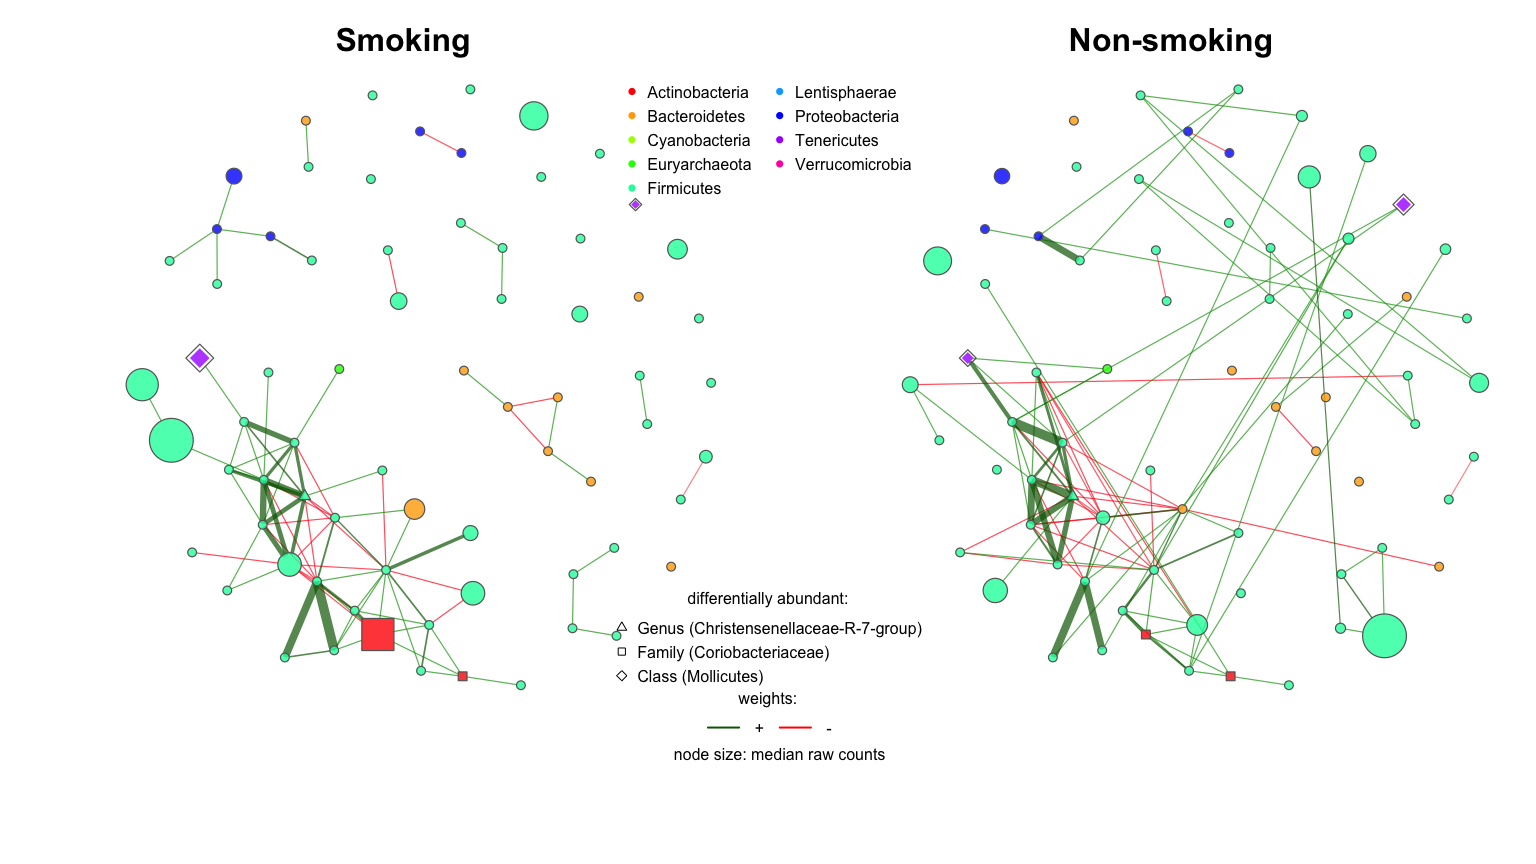
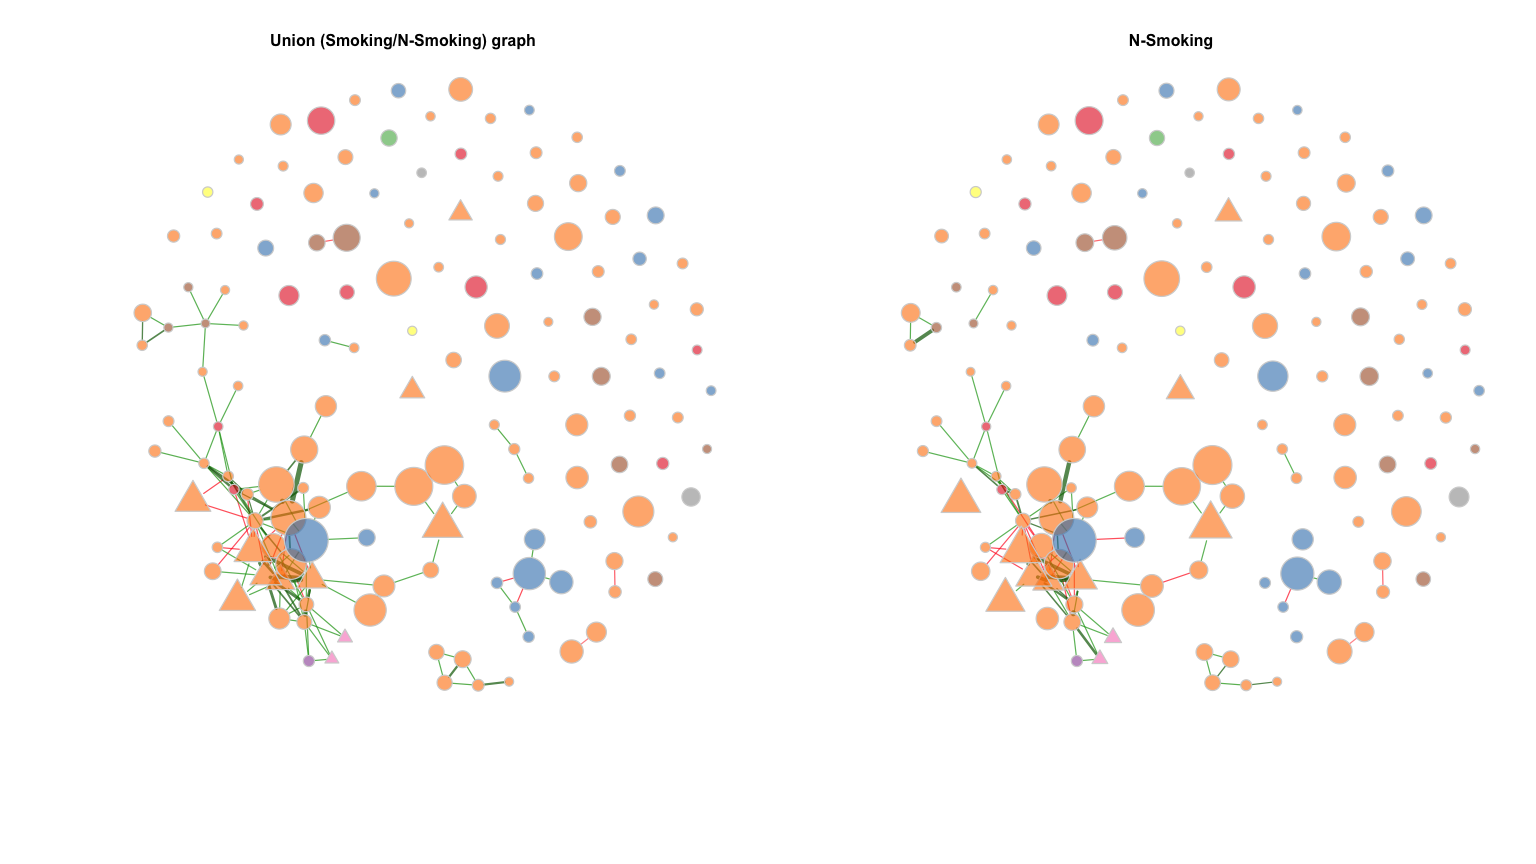
network layout union

diff --git a/5_networks/5.2.1_Networks_viz_Gen_smoke.md b/5_networks/5.2.1_Networks_viz_Gen_smoke.md
@@ -36,33 +36,33 @@ load('/Users/alicesommer/Desktop/DACOMP_cluster/dacomp_results/dacomp_results_sm
 condition <- dacomp_results$p_value_adj[dacomp_results$rank == "Genus"] <= 0.2
 ```
 
+``` r
+# layout union of networks
+graph1 <- graph_from_adjacency_matrix(props_W$input$adjaMat1, weighted = TRUE)
+graph2 <- graph_from_adjacency_matrix(props_W$input$adjaMat2, weighted = TRUE)
+
+graph_u <- union(graph1, graph2)
+### weight
+E(graph_u)$weight <- pmin(E(graph_u)$weight_1, E(graph_u)$weight_2, na.rm = TRUE) # element-wise min. 
+graph_u <- delete_edge_attr(graph_u, "weight_1")
+graph_u <- delete_edge_attr(graph_u, "weight_2")
+
+set.seed(40)
+layout_fr <- layout_with_fr(graph_u, weights = E(graph_u)$weight)
+# layout_fr <- layout.forceatlas2(graph_u, iterations=500, plotstep=500,
+#                                 gravity = .5, k = 800)
+
+plot_net_u <- props_W
+plot_net_u$input$adjaMat1 <- as_adjacency_matrix(graph_u, attr="weight", sparse = FALSE)
+```
+
+![](5.2.1_Networks_viz_Gen_smoke_files/figure-gfm/unnamed-chunk-6-1.png)<!-- -->
+
 We plot the results of the netAnalyze function.
 
 ``` r
-phyl_ps_prune <- as.factor(tax_table(ps_Genus_prune)[, 'Phylum'])
-names(phyl_ps_prune) <- rownames(tax_table(ps_Genus_prune)[, 'Phylum'])
-# phylcol <- rainbow(length(unique(phyl_ps_prune)))
-phylcol <- brewer.pal(9, "Set1")
-
-phylcol_names <- phylcol[phyl_ps_prune]
-names(phylcol_names) <- rownames(tax_table(ps_Genus_prune)[, 'Phylum'])
-# which(tax_table(ps_Genus_prune)[,"Class"] == "Mollicutes")
-# 70 112
-# which(tax_table(ps_Genus_prune)[,"Class"] == "Coriobacteriia")
-# 28  50  77  87  90  99 110 128 131 >> same numbers for Family Coriobacteriaceae 
-# Genus level diff ab
-# 24  40  53 105
-
-
-shapeVec <- rep(1, ncol(otu_table(ps_Genus_prune)))
-shapeVec[which(condition)] <- 2
-#shapeVec[c(28,  50,  77,  87,  90, 99, 110, 128, 131)] <- 3
-#shapeVec[c(70, 112)] <- 4
-names(shapeVec) <- names(phyl_ps_prune)
-
-
 plot_props <- plot(props_W, 
-     layout = "spring",
+     layout = layout_fr,
      # sameLayout = TRUE, layoutGroup = 1, 
      labels = FALSE,
      nodeColor = "colorVec",
@@ -70,12 +70,12 @@ plot_props <- plot(props_W,
      nodeTransp = 40,
      borderCol = "lightgray", highlightHubs = FALSE, 
      nodeSize = "clr", cexNodes = 1, 
-     cexTitle = 1,
+     cexTitle = 2,
      edgeTranspLow = 30, 
      edgeTranspHigh = 30,
      nodeShape = c("circle", "triangle"),
      featVecShape = shapeVec,
-     rmSingles = "inboth",
+     # rmSingles = "inboth",
      mar = c(6,5,3,2), groupNames = c("Smoking", "Non-smoking"))
 legend("top", 
        inset = .04, title = "phylum:",
@@ -110,22 +110,6 @@ summary(props_W)[[1]]
     ## Edge density                     0.00904   0.01007
     ## Natural connectivity             0.00803   0.00809
 
-### Modularity (clusters/modules)
-
-``` r
-summary(props_W)[[2]]
-```
-
-    ##                                  group '1' group '2'
-    ## Relative LCC size                  0.20714   0.28571
-    ## Clustering coefficient             0.48724   0.45000
-    ## Moduarity                          0.32796   0.39723
-    ## Positive-to-negative ratio         3.00000   2.60870
-    ## Edge density                       0.16749   0.10641
-    ## Natural connectivity               0.05114   0.03490
-    ## Average dissimilarity*             0.69428   0.69507
-    ## Average (shortest) path length**   2.51376   3.38766
-
 #### Vizualisation
 
 ``` r
@@ -137,8 +121,7 @@ col <- sample(polychrome(nclust))
 
 set.seed(1)
 plot_cluster <- plot(props_W,
-     # layout = FA_coord,
-     layout = "spring",
+     layout = layout_fr,
      # sameLayout = TRUE, layoutGroup = 1, 
      labels = FALSE, 
      labelFont = 1, cexLabels = 2,
@@ -152,7 +135,7 @@ plot_cluster <- plot(props_W,
      # nodeShape = c("circle", "triangle", "square","diamond"),
      nodeShape = c("circle", "triangle"),
      featVecShape = shapeVec,
-     rmSingles = "inboth",
+     # rmSingles = "inboth",
      cexTitle = 2,
      edgeTranspLow = 30, 
      edgeTranspHigh = 30,
@@ -170,7 +153,7 @@ legend("bottom",
        bty="n", horiz = FALSE) 
 ```
 
-![](5.2.1_Networks_viz_Gen_smoke_files/figure-gfm/unnamed-chunk-10-1.png)<!-- -->
+![](5.2.1_Networks_viz_Gen_smoke_files/figure-gfm/unnamed-chunk-9-1.png)<!-- -->
 
 #### Shared nodes among modules
 
@@ -226,7 +209,7 @@ legend(x=.1, y=-1.1, legend=legend_cats$size_text, pt.cex=legend_cats$size_circl
        title = "Module size (nb. of nodes):")
 ```
 
-![](5.2.1_Networks_viz_Gen_smoke_files/figure-gfm/unnamed-chunk-11-1.png)<!-- -->
+![](5.2.1_Networks_viz_Gen_smoke_files/figure-gfm/unnamed-chunk-10-1.png)<!-- -->
 
 ### Zoom connected component
 
@@ -244,12 +227,12 @@ labels_1 <- as.character(labels_1)
 names(labels_1) <- rownames(tax_table(ps_Genus_prune)[, 'Genus'])
 
 plot(props_W, 
-     # sameLayout = TRUE, layoutGroup = 2, 
-     repulsion = .7,
-     # charToRm = "Seq",
+     # sameLayout = TRUE, layoutGroup = 1, 
+     layout = layout_fr[rownames(layout_fr) %in% names_clust,], 
+     # repulsion = .6,
      labels = labels_1[names_clust],
      labelFont = 1, 
-     cexLabels = .7,
+     cexLabels = 1.5,
      labelScale = FALSE,
      featVecCol = phyl_ps_prune[names_clust],
      nodeColor = "colorVec",
@@ -262,11 +245,11 @@ plot(props_W,
      featVecShape = shapeVec[names_clust],
      nodeFilterPar = names_clust,
      edgeTranspLow = 30, edgeTranspHigh = 30,
-     edgeWidth = .5,
+     edgeWidth = .5, cexTitle = 2,
      groupNames = c("Smoking", "Non-smoking"))
 ```
 
-![](5.2.1_Networks_viz_Gen_smoke_files/figure-gfm/unnamed-chunk-13-1.png)<!-- -->
+![](5.2.1_Networks_viz_Gen_smoke_files/figure-gfm/unnamed-chunk-12-1.png)<!-- -->
 
 ### Correlation structure (non-smoking)
 
@@ -284,4 +267,4 @@ corrplot(cor_1, method = "color", tl.col = "grey", mar=c(0,0,5,0),
          col = col1(100), title = "Non-smoking")
 ```
 
-![](5.2.1_Networks_viz_Gen_smoke_files/figure-gfm/unnamed-chunk-14-1.png)<!-- -->
+![](5.2.1_Networks_viz_Gen_smoke_files/figure-gfm/unnamed-chunk-13-1.png)<!-- -->
